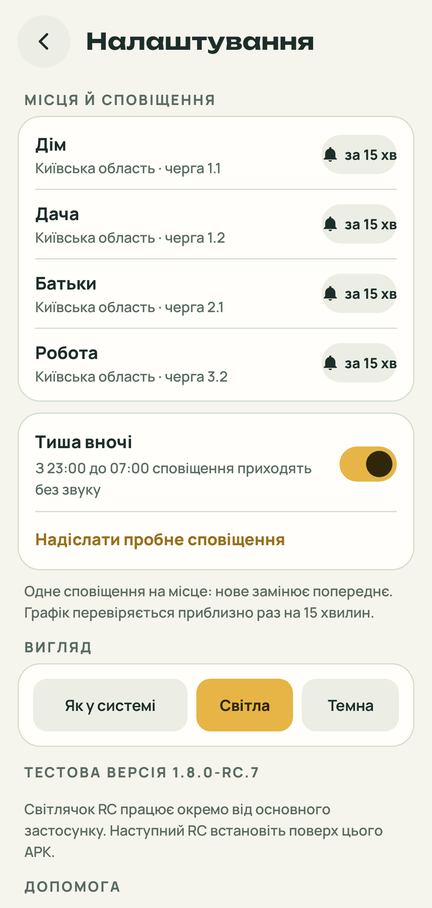
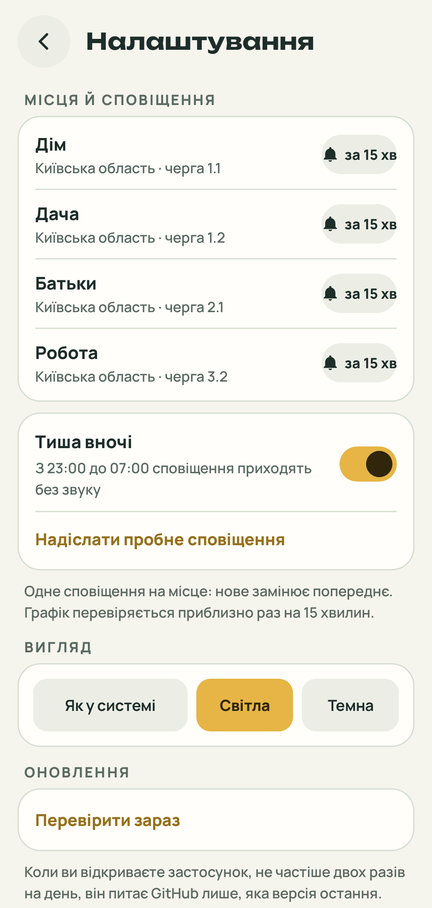
Опис випуску 1.8.0 і знімки стабільного застосунку

Changed region(s): [[0.0602, 0.8326, 0.9329, 1.0]]

diff --git a/docs/index.html b/docs/index.html
@@ -41,6 +41,8 @@
 <p class="note">Два розміри віджета: малий 2×1 і великий 4×2. Після появи завтрашнього графіка у великому видно сьогодні 12–23 і завтра 00–11; опівночі повертається повний день. Минулі години темніші, поточна має жовту рамку.</p>
 <h2 id="mozhlyvosti">Що вміє</h2>
 <div class="grid"><div class="card"><h3><span class="e" aria-hidden="true">📅</span>Графік вашої черги</h3><p>Чи є світло зараз за графіком і відколи, коли вимкнуть або ввімкнуть і через скільки. Сьогодні й завтра — 24 годинні клітинки у двох рядах, кожна з половинами по 30 хвилин. Дотик показує початок, кінець і тривалість відрізка.</p></div><div class="card"><h3><span class="e" aria-hidden="true">🔔</span>Сповіщення</h3><p>За 15 хвилин до вимкнення і за 15 хвилин до ввімкнення світла. У повідомленні — інтервал і тривалість світла чи вимкнення. Час, тиша вночі й сповіщення про новий графік — у налаштуваннях кожного місця.</p></div><div class="card"><h3><span class="e" aria-hidden="true">🧩</span>Віджет</h3><p>Лампочка, стан і до котрої години — на головному екрані, без відкриття застосунку. Свій віджет для кожного місця.</p></div><div class="card"><h3><span class="e" aria-hidden="true">📍</span>Кілька місць</h3><p>До 4 місць з будь-якими областями й чергами: дім, дача, батьки, робота. Дві плитки в рядку, коли дозволяє ширина екрана, зокрема зі збільшеним системним шрифтом.</p></div><div class="card"><h3><span class="e" aria-hidden="true">📊</span>Статистика</h3><p>Таблиця всіх місць із відсотками світла за тиждень і 4 тижні. Дотик до місця відкриває його графік.</p></div><div class="card"><h3><span class="e" aria-hidden="true">📤</span>Поділитися</h3><p>Графік дня картинкою у Viber чи Telegram — для рідних, у яких немає застосунку.</p></div></div>
+<h2 id="ekrany">Інші екрани застосунку</h2>
+<div class="shots"><img src="screenshots/stats-month.png" alt="Статистика всіх місць за чотири тижні" width="432" height="908" loading="lazy"><img src="screenshots/reminders.png" alt="Налаштування сповіщень і час наступного повідомлення" width="432" height="908" loading="lazy"><img src="screenshots/widget-setup.png" alt="Вибір місця для віджета" width="432" height="908" loading="lazy"><img src="screenshots/help.png" alt="Довідка, якщо світла немає всупереч графіку" width="432" height="908" loading="lazy"></div>
 <h2 id="oblasti">Області</h2>
 <p>Графіки є для міста Києва і 16 областей.</p>
 <ul class="regions"><li><a href="misto-kyiv/">Місто Київ</a></li><li><a href="kyivska/">Київська область</a></li><li><a href="vinnytska/">Вінницька область</a></li><li><a href="dnipropetrovska/">Дніпропетровська область</a></li><li><a href="cherkaska/">Черкаська область</a></li><li><a href="kharkivska/">Харківська область</a></li><li><a href="zhytomyrska/">Житомирська область</a></li><li><a href="zakarpatska/">Закарпатська область</a></li><li><a href="zaporizka/">Запорізька область</a></li><li><a href="ivano-frankivska/">Івано-Франківська область</a></li><li><a href="lvivska/">Львівська область</a></li><li><a href="odeska/">Одеська область</a></li><li><a href="poltavska/">Полтавська область</a></li><li><a href="rivnenska/">Рівненська область</a></li><li><a href="ternopilska/">Тернопільська область</a></li><li><a href="khmelnytska/">Хмельницька область</a></li><li><a href="chernihivska/">Чернігівська область</a></li></ul>

diff --git a/CHANGELOG.md b/CHANGELOG.md
@@ -1,6 +1,6 @@
 # Зміни
 
-## 1.8.0
+## 1.8.0 — 2026-11-06
 
 ### ✨ Додано
 
